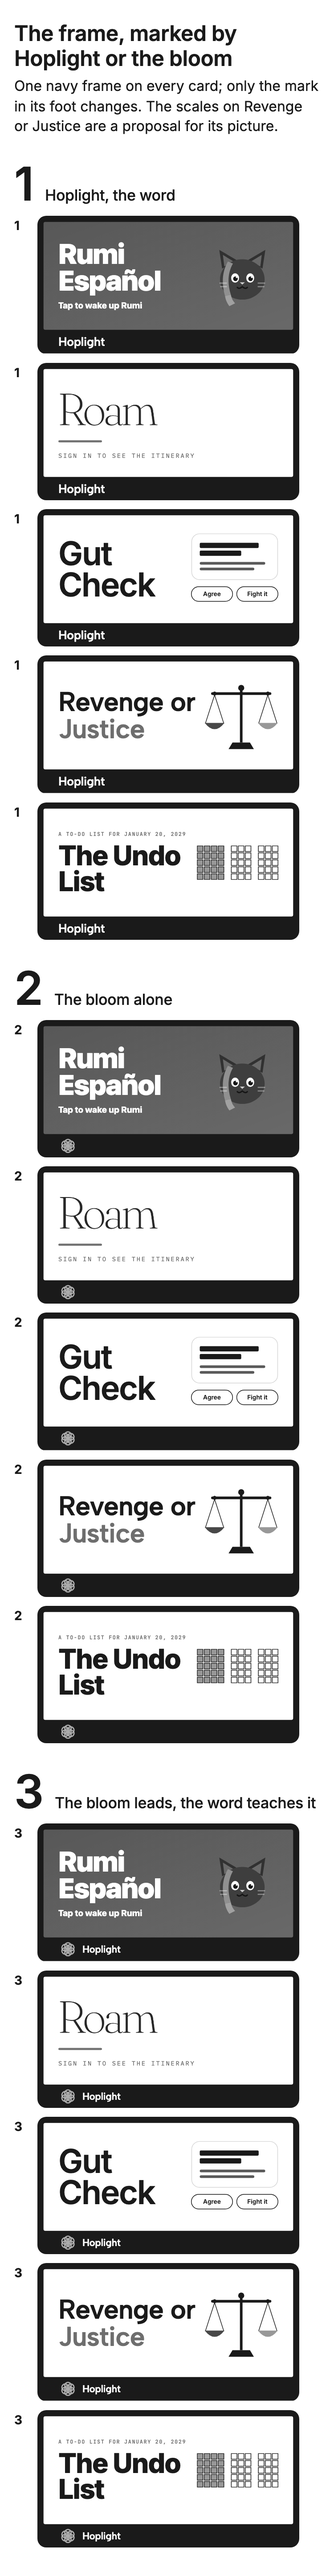
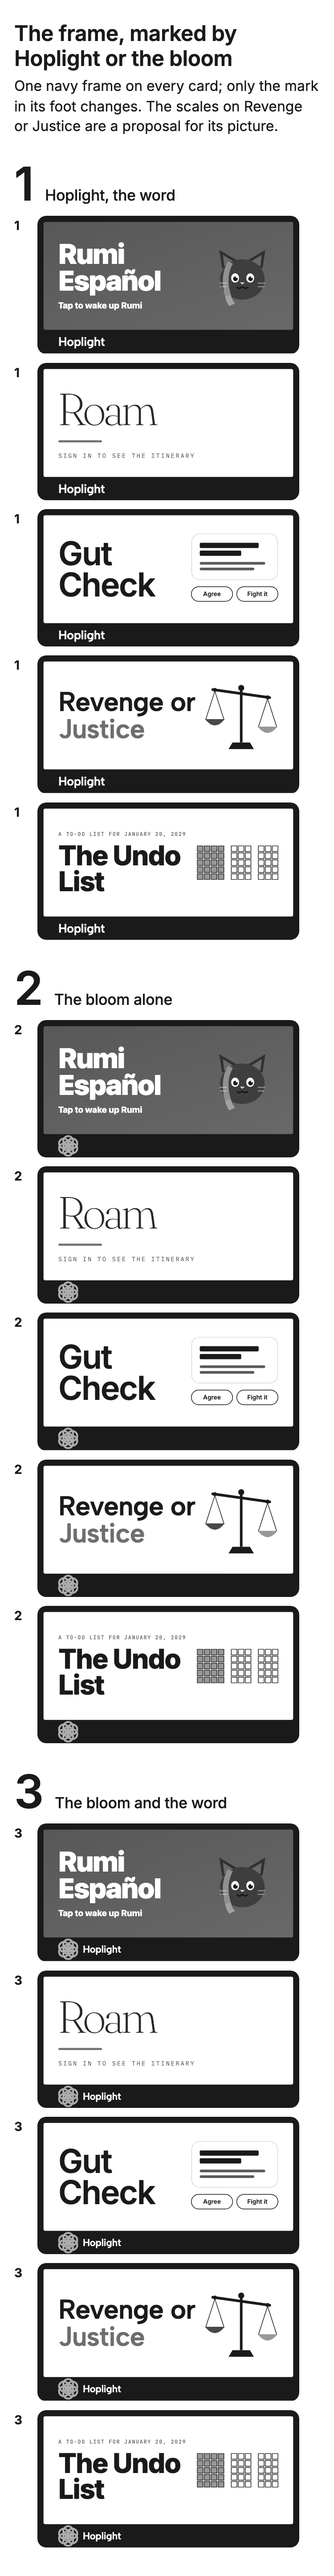
mockups: card-frames review fixes; the bloom in treatments 2 and 3 grows 1.5 times to fill the frame's foot, treatment 3 is renamed The bloom and the word, and the Revenge or Justice scales tip 8 degrees so the gold justice pan hangs lower; re-rendered at 375 and 1440 in colour and grayscale. Full n

diff --git a/public/mockups/card-frames.html b/public/mockups/card-frames.html
@@ -93,7 +93,9 @@ h2 { font-size: 20px; font-weight: 500; margin: 0; letter-spacing: -0.01em; }
 .foot { position: absolute; left: 96px; top: 522px; height: 108px; display: flex; align-items: center; gap: 22px; }
 .hw { font-family: 'Albert Sans', sans-serif; font-weight: 600; font-size: 56px; line-height: 1; letter-spacing: -0.02em; color: #FFFFFF; white-space: nowrap; }
 .hw.small { font-size: 46px; }
-.foot svg { flex: none; }
+/* The bloom's seven circles fill 68% of its 100 box, so a 132 box draws a 90 flower in the 108 foot;
+   the empty margin of the box is pulled back so the flower, not its box, lines up with the text. */
+.foot svg { flex: none; margin: -12px -21px; }
 
 /* ---------- The five products, each in its own look ---------- */
 /* Rumi Español */
@@ -180,15 +182,21 @@ h2 { font-size: 20px; font-weight: 500; margin: 0; letter-spacing: -0.01em; }
   // Revenge or Justice, proposed picture: a balance scale, level, in the product's own colours. The
   // beam and post in navy, the revenge pan in its red, the justice pan in its gold. No blade.
   function scales() {
+    // The beam tips 8 degrees about its pivot (170, 60) so the justice pan hangs lower; each pan still
+    // hangs straight down, so it moves with its end of the beam (122 * sin 8 = 17 up or down) without turning.
     return '<svg viewBox="0 0 340 320" aria-hidden="true">'
-      + '<g stroke="#0F1B2D" stroke-width="3" stroke-linecap="round">'
-      + '<line x1="48" y1="66" x2="6" y2="196"/><line x1="48" y1="66" x2="90" y2="196"/>'
-      + '<line x1="292" y1="66" x2="250" y2="196"/><line x1="292" y1="66" x2="334" y2="196"/></g>'
-      + '<path d="M3 194 Q48 252 93 194 Z" fill="#9C3327"/>'
-      + '<path d="M247 194 Q292 252 337 194 Z" fill="#D4950A"/>'
+      + '<g transform="translate(1.2 -17)">'
+      + '<line x1="48" y1="66" x2="6" y2="196" stroke="#0F1B2D" stroke-width="3" stroke-linecap="round"/>'
+      + '<line x1="48" y1="66" x2="90" y2="196" stroke="#0F1B2D" stroke-width="3" stroke-linecap="round"/>'
+      + '<path d="M3 194 Q48 252 93 194 Z" fill="#9C3327"/></g>'
+      + '<g transform="translate(-1.2 17)">'
+      + '<line x1="292" y1="66" x2="250" y2="196" stroke="#0F1B2D" stroke-width="3" stroke-linecap="round"/>'
+      + '<line x1="292" y1="66" x2="334" y2="196" stroke="#0F1B2D" stroke-width="3" stroke-linecap="round"/>'
+      + '<path d="M247 194 Q292 252 337 194 Z" fill="#D4950A"/></g>'
       + '<rect x="164" y="40" width="12" height="244" fill="#0F1B2D"/>'
+      + '<g transform="rotate(8 170 60)">'
       + '<rect x="32" y="54" width="276" height="12" rx="6" fill="#0F1B2D"/>'
-      + '<circle cx="48" cy="60" r="9" fill="#0F1B2D"/><circle cx="292" cy="60" r="9" fill="#0F1B2D"/>'
+      + '<circle cx="48" cy="60" r="9" fill="#0F1B2D"/><circle cx="292" cy="60" r="9" fill="#0F1B2D"/></g>'
       + '<circle cx="170" cy="34" r="14" fill="#0F1B2D"/>'
       + '<path d="M112 314 L228 314 L210 284 L130 284 Z" fill="#0F1B2D"/>'
       + '</svg>';
@@ -218,8 +226,8 @@ h2 { font-size: 20px; font-weight: 500; margin: 0; letter-spacing: -0.01em; }
 
   var TREATMENTS = [
     { n: '1', name: 'Hoplight, the word', mark: function () { return WORD; } },
-    { n: '2', name: 'The bloom alone', mark: function () { return bloom(88); } },
-    { n: '3', name: 'The bloom leads, the word teaches it', mark: function () { return bloom(88) + '<span class="hw small">Hoplight</span>'; } }
+    { n: '2', name: 'The bloom alone', mark: function () { return bloom(132); } },
+    { n: '3', name: 'The bloom and the word', mark: function () { return bloom(132) + '<span class="hw small">Hoplight</span>'; } }
   ];
 
   function shot(t, p) {
